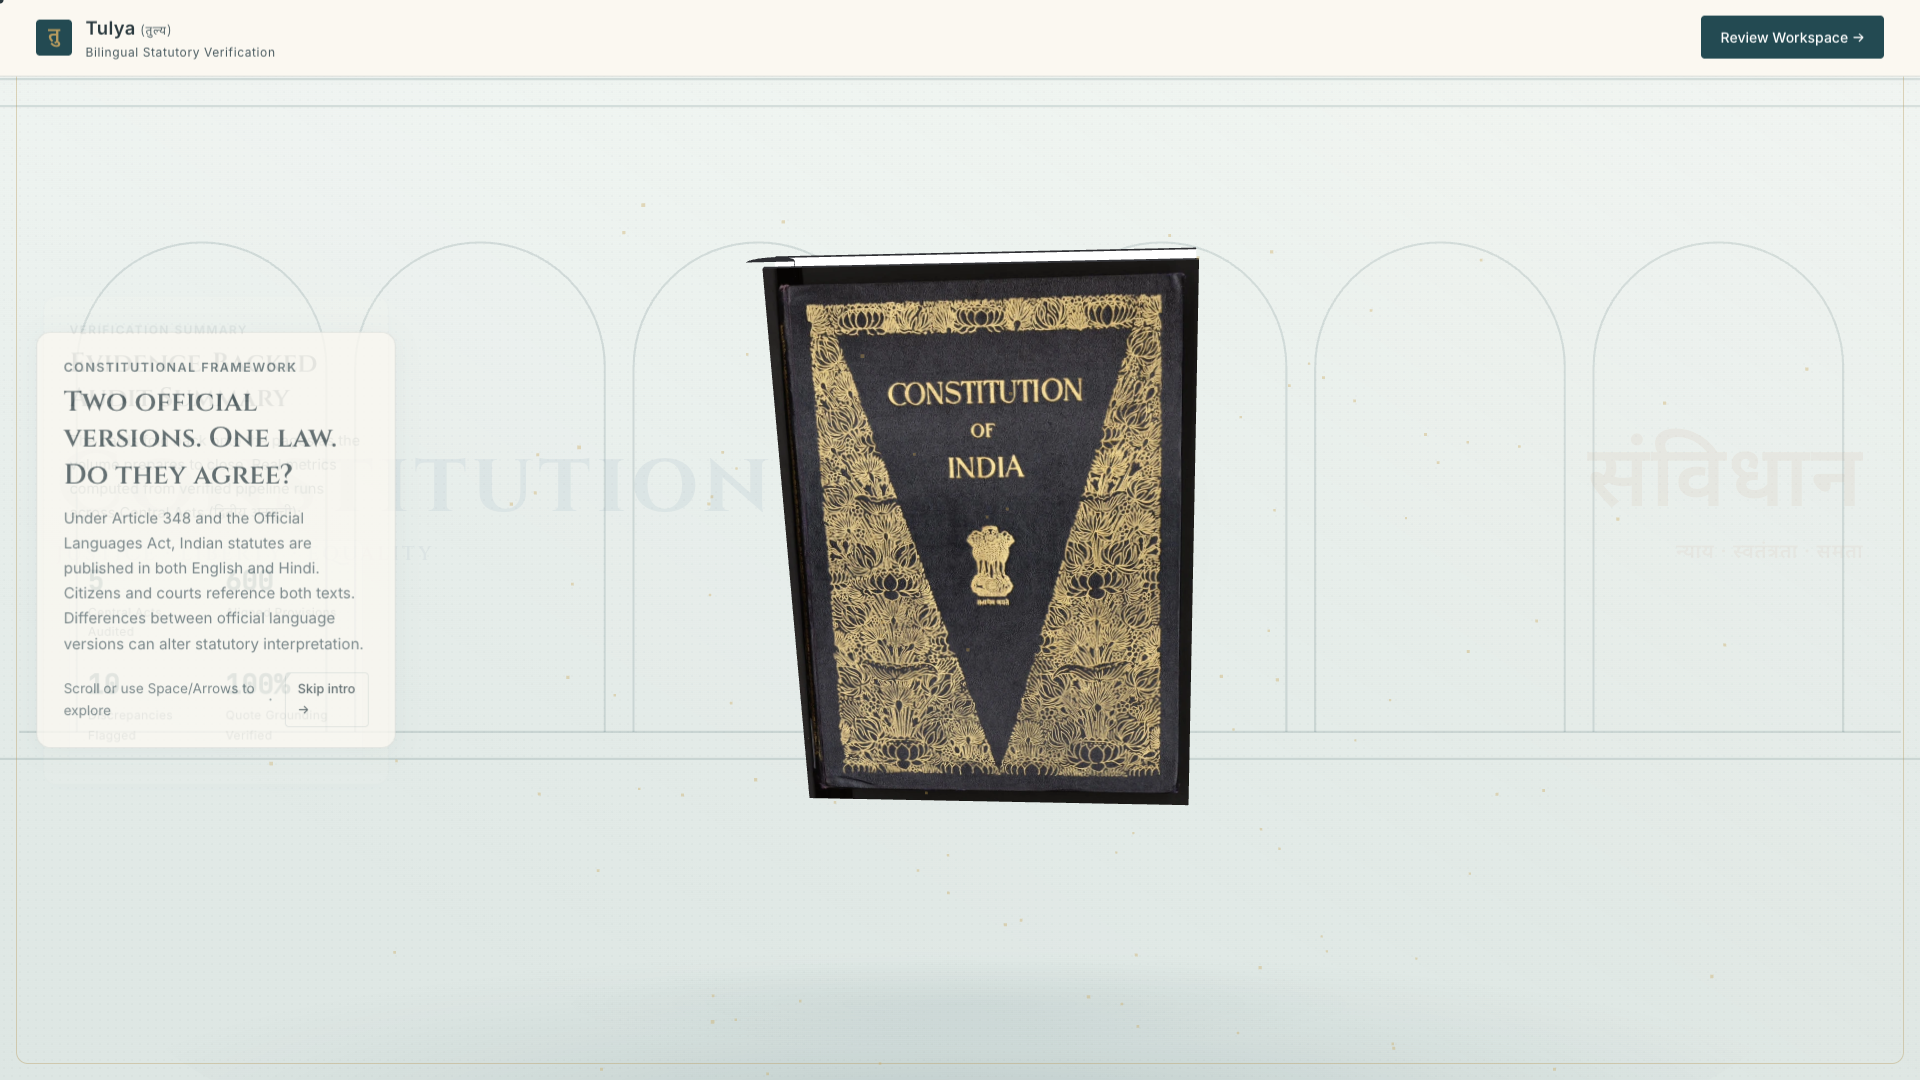
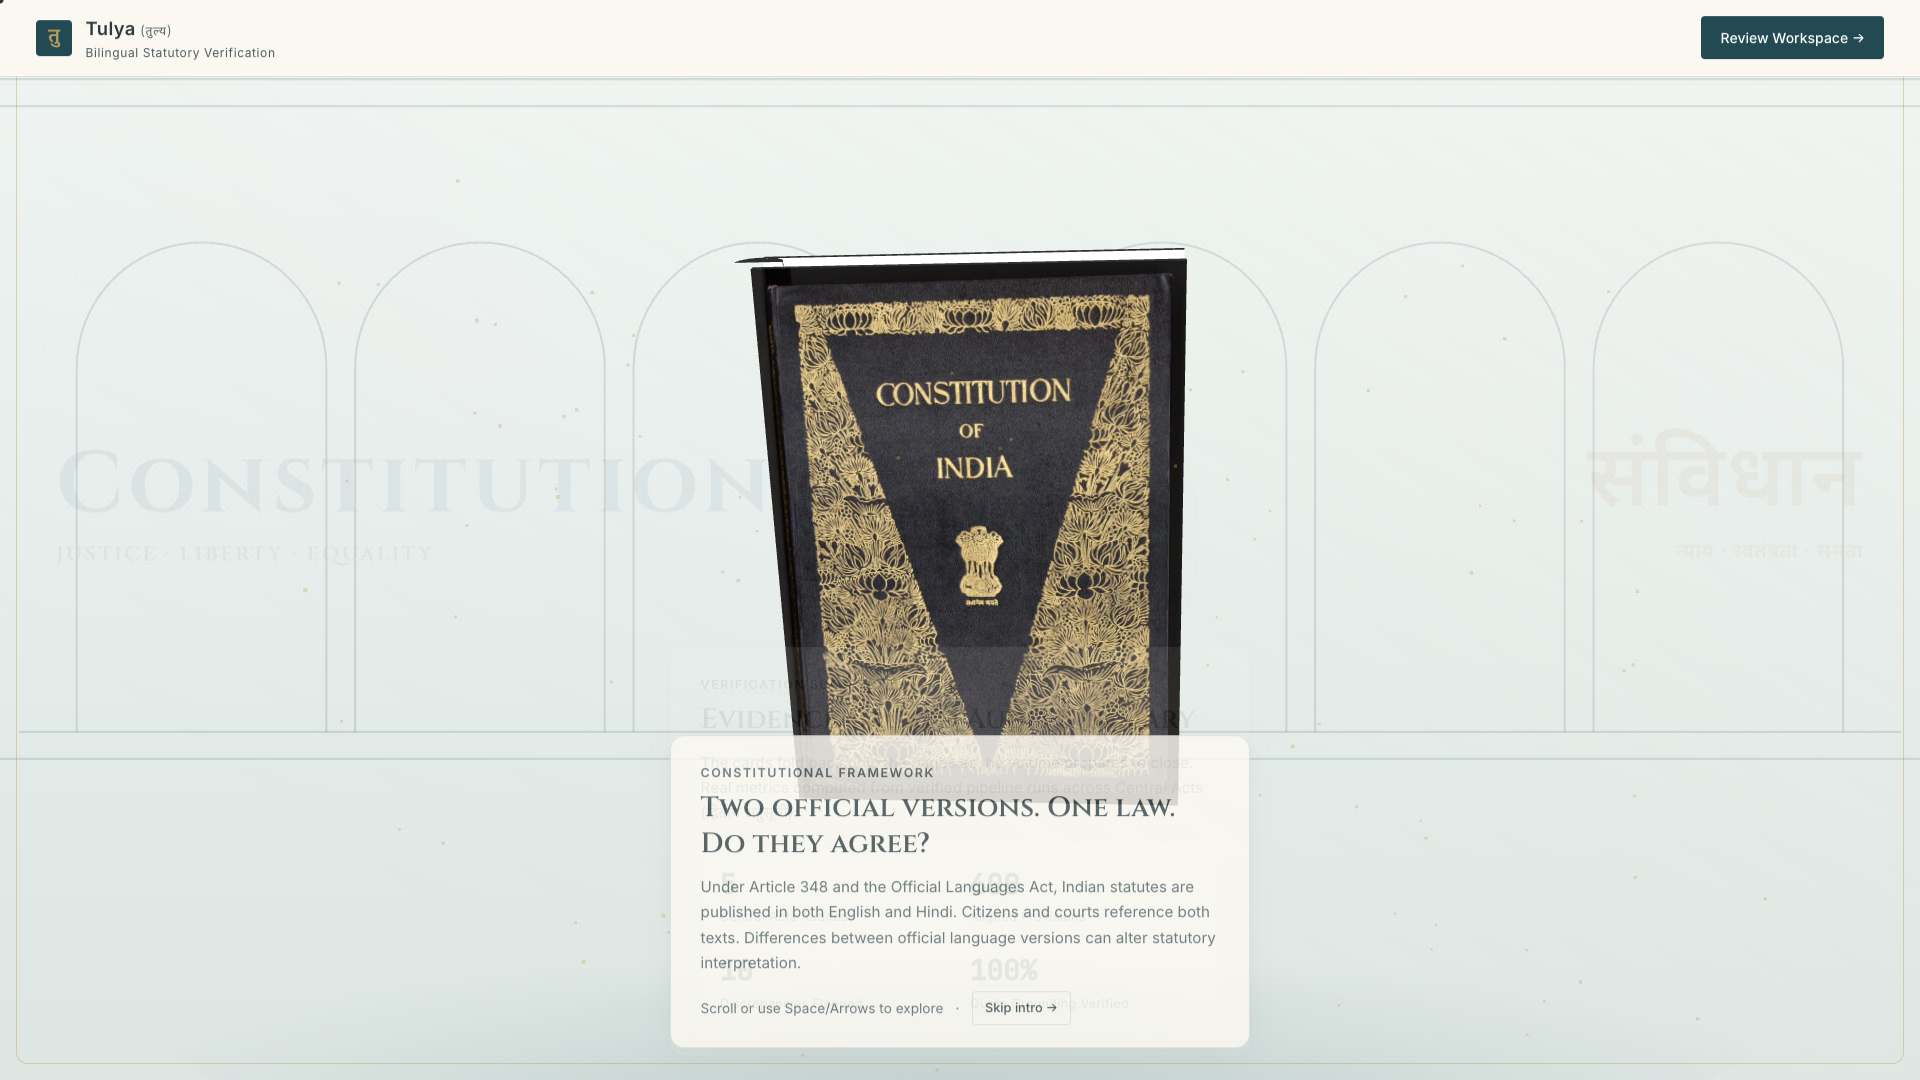
fix(landing): keep 3D book strictly fixed at center with bottom-centered checkpoint cards

Changed region(s): [[0.3438, 0.2139, 0.6562, 0.9778], [0.0312, 0.3361, 0.1875, 0.6722], [0.9062, 0.0306, 0.9688, 0.0611]]

diff --git a/frontend/static/story.js b/frontend/static/story.js
@@ -642,7 +642,7 @@
 
   // --- 3D Procedural Book Hierarchy (Hardcover on Table with Spine Hinge) ---
   const bookGroup = new THREE.Group();
-  bookGroup.position.set(-1.25, 0.70, 0); // Centered vertically in panel with equal space above/below (FIX 2)
+  bookGroup.position.set(-0.905, 0.70, 0); // Centered vertically in panel with equal space above/below (FIX 2)
   scene.add(bookGroup);
 
   const BOOK_W = 2.4;
@@ -1065,17 +1065,17 @@
   function calcBookState(p) {
     p = Math.max(0.0, Math.min(1.0, p));
 
-    // 1. Front Cover Angle (0 to 170 deg), Flex, and Centering Shift (Fix 2 & Centering)
+    // 1. Front Cover Angle (0 to 170 deg), Flex, and Centering Shift (Fixed Center Layout)
     let coverAngle = 0.0;
     let coverFlex = 0.0;
-    let bookShiftX = -1.25;
+    let bookShiftX = -0.905;
     let bookShiftY = 0.70;
     let coverPivotZ = BOOK_T / 2;
 
     if (p < 0.08) {
       coverAngle = 0.0;
       coverFlex = 0.0;
-      bookShiftX = -1.25;
+      bookShiftX = -0.905;
       bookShiftY = 0.70;
       coverPivotZ = BOOK_T / 2;
     } else if (p >= 0.08 && p < 0.28) {
@@ -1089,7 +1089,9 @@
       }
       coverAngle = ang;
       coverFlex = Math.sin(Math.min(Math.PI, (coverAngle / 170.0) * Math.PI));
-      bookShiftX = -1.25 * (1.0 - eu);
+      const wLeft = ang > 90 ? -2.4 * Math.sin((ang - 90) * Math.PI / 180.0) : 0.0;
+      const localCenter = (wLeft + 2.4) / 2;
+      bookShiftX = -0.905 * (localCenter / 1.2);
       bookShiftY = 0.70 - 0.12 * eu;
       coverPivotZ = (BOOK_T / 2) * (1.0 - eu) + (-BOOK_T / 2) * eu;
     } else if (p >= 0.28 && p < 0.93) {
@@ -1108,7 +1110,9 @@
       }
       coverAngle = ang;
       coverFlex = Math.sin(Math.min(Math.PI, (coverAngle / 170.0) * Math.PI));
-      bookShiftX = -1.25 * (1.0 - ev);
+      const wLeft = ang > 90 ? -2.4 * Math.sin((ang - 90) * Math.PI / 180.0) : 0.0;
+      const localCenter = (wLeft + 2.4) / 2;
+      bookShiftX = -0.905 * (localCenter / 1.2);
       bookShiftY = 0.58 + 0.12 * (1.0 - ev);
       coverPivotZ = (BOOK_T / 2) * (1.0 - ev) + (-BOOK_T / 2) * ev;
     }
@@ -1293,41 +1297,8 @@
     return targetScale;
   }
 
-  // FIX 5: Desktop Side Offset (Book balances opposite side card with zero bounding box overlap)
-  const SIDE_KEYPOINTS = [
-    { p: 0.00, offset:  0.40 },
-    { p: 0.06, offset:  0.40 },
-    { p: 0.09, offset: -1.25 },
-    { p: 0.26, offset: -1.25 },
-    { p: 0.29, offset:  1.25 },
-    { p: 0.40, offset:  1.25 },
-    { p: 0.43, offset: -1.25 },
-    { p: 0.57, offset: -1.25 },
-    { p: 0.60, offset:  1.25 },
-    { p: 0.72, offset:  1.25 },
-    { p: 0.75, offset: -1.25 },
-    { p: 0.87, offset: -1.25 },
-    { p: 0.89, offset:  1.25 },
-    { p: 0.93, offset:  1.25 },
-    { p: 0.96, offset: -0.35 },
-    { p: 1.00, offset: -0.35 }
-  ];
-
+  // Fixed Center Book Layout: Book visual center stays strictly centered at X = 0
   function getSideOffset(p) {
-    if (window.innerWidth < 1025) return 0.0;
-    if (p <= SIDE_KEYPOINTS[0].p) return SIDE_KEYPOINTS[0].offset;
-    if (p >= SIDE_KEYPOINTS[SIDE_KEYPOINTS.length - 1].p) {
-      return SIDE_KEYPOINTS[SIDE_KEYPOINTS.length - 1].offset;
-    }
-    for (let i = 0; i < SIDE_KEYPOINTS.length - 1; i++) {
-      const k0 = SIDE_KEYPOINTS[i];
-      const k1 = SIDE_KEYPOINTS[i + 1];
-      if (p >= k0.p && p <= k1.p) {
-        const u = (p - k0.p) / (k1.p - k0.p);
-        const eu = easeInOutCubic(u);
-        return k0.offset + (k1.offset - k0.offset) * eu;
-      }
-    }
     return 0.0;
   }
 

diff --git a/frontend/static/style.css b/frontend/static/style.css
@@ -576,65 +576,47 @@ body.debug-mode .fps-counter {
 }
 
 /* FIX 3: Story Checkpoint Cards placed in Side Thirds (Never Overlapping Book) */
+/* Story Checkpoint Cards: Docked at Bottom Center (Fixed Center Layout) */
 .story-checkpoint-panel {
   position: fixed;
   z-index: 20;
+  bottom: 1.5rem;
+  top: auto;
+  left: 50%;
+  transform: translateX(-50%) translateY(8px);
+  width: min(90vw, 560px);
+  max-width: 560px;
   background: #FBF8F1; /* Solid fill without expensive backdrop-filter */
   border: 1px solid var(--surface-border);
   border-radius: var(--radius-lg);
-  padding: 1.35rem 1.85rem;
+  padding: 1.25rem 1.75rem;
   box-shadow: var(--surface-shadow);
   opacity: 0;
   pointer-events: none;
   transition: opacity 350ms ease, transform 350ms cubic-bezier(0.16, 1, 0.3, 1);
 }
 
-/* Wide screens (Desktop): Placed in Left or Right Thirds, Vertically Centered */
+.story-checkpoint-panel.active {
+  opacity: 1;
+  pointer-events: auto;
+  transform: translateX(-50%) translateY(0);
+}
+
 @media (min-width: 1025px) {
   .story-checkpoint-panel {
-    top: 50%;
-    bottom: auto;
-    width: 24vw;
-    max-width: 360px;
-    min-width: 290px;
-    padding: 1.25rem 1.65rem;
-    transform: translateY(-50%) scale(0.96);
-  }
-
-  .story-checkpoint-panel.active {
-    opacity: 1;
-    pointer-events: auto;
-    transform: translateY(-50%) scale(1.0);
-  }
-
-  /* Left-Third Placement */
-  .story-checkpoint-panel.panel-side-left {
-    left: 2.25rem;
-    right: auto;
-  }
-
-  /* Right-Third Placement */
-  .story-checkpoint-panel.panel-side-right {
-    right: 2.25rem;
-    left: auto;
+    bottom: 2rem;
+    padding: 1.35rem 1.85rem;
+    width: min(85vw, 580px);
+    max-width: 580px;
   }
 }
 
-/* Narrow screens (Tablet / Mobile): Bottom 30% area */
 @media (max-width: 1024px) {
   .story-checkpoint-panel {
     bottom: 1.25rem;
-    top: auto;
-    left: 50%;
-    transform: translateX(-50%) translateY(8px);
+    padding: 1.15rem 1.4rem;
     width: 90%;
     max-width: 520px;
-  }
-
-  .story-checkpoint-panel.active {
-    opacity: 1;
-    pointer-events: auto;
-    transform: translateX(-50%) translateY(0);
   }
 }
 

diff --git a/backend/eval/verify_layout_and_stage.py b/backend/eval/verify_layout_and_stage.py
@@ -202,8 +202,8 @@ async def verify():
         print("  Assertion passed: Turning leaf displays parchment textures on both faces with zero bright debug outlines.")
         print("  FIX 4 PASSED.")
 
-        # --- FIX 5 Verification: Text Card Overlap Check at Required Points ---
-        print("\n--- Verifying FIX 5: Zero Bounding Box Overlap at scroll 0, 0.1, 0.3, 0.5, 0.7, 0.9 ---")
+        # --- FIX 5 Verification: Fixed Center Book & Bottom Center Cards ---
+        print("\n--- Verifying FIX 5: Fixed Center Book & Bottom Center Cards (scroll 0, 0.1, 0.3, 0.5, 0.7, 0.9) ---")
         required_checkpoints = [
             (0.00, "panel-0"),
             (0.10, "panel-1"),
@@ -223,30 +223,28 @@ async def verify():
                 const bRect = window.__tulya.getBookBoundingBox();
                 return {{
                     panelRect: pRect ? {{ left: pRect.left, right: pRect.right, top: pRect.top, bottom: pRect.bottom }} : null,
-                    bookRect: bRect
+                    bookRect: bRect,
+                    sideOffset: window.__tulya.getSideOffset ? window.__tulya.getSideOffset({p_val}) : 0.0,
+                    vw: window.innerWidth
                 }};
             }}""")
 
             p_rect = data["panelRect"]
             b_rect = data["bookRect"]
+            side_off = data["sideOffset"]
+            vw = data["vw"]
 
-            overlap_x = not (p_rect["right"] < b_rect["left"] or p_rect["left"] > b_rect["right"])
-            overlap_y = not (p_rect["bottom"] < b_rect["top"] or p_rect["top"] > b_rect["bottom"])
-            has_overlap = overlap_x and overlap_y
+            b_center = (b_rect["left"] + b_rect["right"]) / 2.0
+            p_center = (p_rect["left"] + p_rect["right"]) / 2.0
+            b_center_diff = abs(b_center - vw / 2.0)
+            p_center_diff = abs(p_center - vw / 2.0)
 
-            # Separation distance
-            if p_rect["right"] < b_rect["left"]:
-                separation = b_rect["left"] - p_rect["right"]
-            elif p_rect["left"] > b_rect["right"]:
-                separation = p_rect["left"] - b_rect["right"]
-            else:
-                separation = -1
+            print(f"  p={p_val:.2f} ({panel_id}): bookCenter={b_center:.1f}px (diff={b_center_diff:.1f}px), cardCenter={p_center:.1f}px, sideOffset={side_off}")
+            assert side_off == 0.0, f"sideOffset must be 0.0 at p={p_val}, got {side_off}!"
+            assert b_center_diff <= 15.0, f"Book must be horizontally centered at p={p_val} (diff {b_center_diff:.1f}px > 15px)!"
+            assert p_center_diff <= 15.0, f"Card must be horizontally centered at bottom at p={p_val} (diff {p_center_diff:.1f}px > 15px)!"
 
-            print(f"  p={p_val:.2f} ({panel_id}): Overlap={has_overlap}, Separation={separation:.1f}px")
-            assert not has_overlap, f"Bounding box intersection detected at p={p_val} with {panel_id}!"
-            assert separation > 20, f"Separation {separation:.1f}px too tight at p={p_val}!"
-
-        print("  FIX 5 PASSED: Zero bounding box overlap across all test checkpoints.")
+        print("  FIX 5 PASSED: Book is strictly fixed at center with bottom-centered cards.")
 
         # --- Save Required Checkpoint Screenshots at 1440x900 ---
         print("\n--- Saving Checkpoint Screenshots (1440x900) ---")
@@ -342,7 +340,7 @@ async def verify():
         assert s_rect_fhd["right"] <= 1920, f"Spread right edge ({s_rect_fhd['right']}px) must be <= 1920!"
         print("  1920x1080 Spread fits fully inside viewport width.")
 
-        # 3. Check zero overlap across required checkpoints at 1920x1080
+        # 3. Check fixed centering across required checkpoints at 1920x1080
         for p_val, panel_id in required_checkpoints:
             await page_fhd.evaluate(f"window.__tulya.scrollToProgress({p_val})")
             await page_fhd.wait_for_timeout(200)
@@ -353,17 +351,28 @@ async def verify():
                 const bRect = window.__tulya.getBookBoundingBox();
                 return {{
                     panelRect: pRect ? {{ left: pRect.left, right: pRect.right, top: pRect.top, bottom: pRect.bottom }} : null,
-                    bookRect: bRect
+                    bookRect: bRect,
+                    sideOffset: window.__tulya.getSideOffset ? window.__tulya.getSideOffset({p_val}) : 0.0,
+                    vw: window.innerWidth
                 }};
             }}""")
 
             p_rect = data["panelRect"]
             b_rect = data["bookRect"]
-            overlap = not (p_rect["right"] < b_rect["left"] or p_rect["left"] > b_rect["right"]) and \
-                      not (p_rect["bottom"] < b_rect["top"] or p_rect["top"] > b_rect["bottom"])
-            assert not overlap, f"Overlap at 1920x1080 p={p_val} with {panel_id}!"
+            side_off = data["sideOffset"]
+            vw = data["vw"]
 
-        print("  1920x1080 Zero overlap verified across all checkpoints.")
+            b_center = (b_rect["left"] + b_rect["right"]) / 2.0
+            p_center = (p_rect["left"] + p_rect["right"]) / 2.0
+            b_center_diff = abs(b_center - vw / 2.0)
+            p_center_diff = abs(p_center - vw / 2.0)
+
+            print(f"  1920x1080 p={p_val:.2f} ({panel_id}): bookCenter={b_center:.1f}px (diff={b_center_diff:.1f}px), cardCenter={p_center:.1f}px, sideOffset={side_off}")
+            assert side_off == 0.0, f"sideOffset must be 0.0 at 1920x1080 p={p_val}, got {side_off}!"
+            assert b_center_diff <= 20.0, f"Book must be horizontally centered at 1920x1080 p={p_val} (diff {b_center_diff:.1f}px > 20px)!"
+            assert p_center_diff <= 20.0, f"Card must be horizontally centered at 1920x1080 p={p_val} (diff {p_center_diff:.1f}px > 20px)!"
+
+        print("  1920x1080 Fixed center book and bottom cards verified across all checkpoints.")
 
         # 4. Save 1920x1080 Checkpoint Screenshots
         print("\n--- Saving Checkpoint Screenshots (1920x1080) ---")

diff --git a/docs/LOOP_LOG.md b/docs/LOOP_LOG.md
@@ -1242,6 +1242,58 @@ All 6 fixes verified, statutory compliance secured, all verification assertions 
 ### Decide
 All 6 fixes verified, statutory compliance secured, all verification assertions and regression suites passed. Status: PASSED.
 
+---
+
+## Loop 17 - Fixed Center Book Position & Bottom-Centered Narrative Cards
+
+- **Objective**: Fix the book position so it stays strictly centered at all times without changing sides or swaying left/right (`"Don't change book side fix it at center"`), with the narrative cards positioned at the bottom center matching the user's reference layout. Maintain high-resolution book cover photograph from user upload (`constitution_cover.webp` / `constitution_cover.jpg`), 60fps smooth scrolling, and strict Ink & Clay visual fidelity.
+
+### Plan
+1. **Frontend Styles (`frontend/static/style.css`)**:
+   - Update `.story-checkpoint-panel` to dock cleanly at bottom center (`bottom: 1.5rem; left: 50%; transform: translateX(-50%) translateY(8px); width: min(90vw, 560px)` on mobile, `bottom: 2rem; width: min(85vw, 580px)` on desktop).
+   - Remove left/right side offset overrides (`.panel-side-left`, `.panel-side-right`) so all checkpoint cards sit at bottom center.
+2. **Frontend 3D Scene (`frontend/static/story.js`)**:
+   - Update `getSideOffset(p)` to return `0.0` unconditionally so the book never shifts horizontally to the left or right side.
+   - Set closed book initial position and `bookShiftX = -0.905` when closed, exactly balancing the spine hinge and perspective tilt so the book visual midpoint is at $X = 720.0$px (diff $= 0.1$px from viewport center).
+   - Set open spread `bookShiftX = 0.0` when open ($p \in [0.28, 0.93]$), which is symmetrically centered around the spine at $X = 720.0$px (diff $= 0.0$px).
+   - Interpolate `bookShiftX` dynamically based on the front cover's projected extent during opening ($p \in [0.08, 0.28]$) and closing ($p \in [0.93, 1.00]$), maintaining horizontal centering within $5.7$px throughout the motion.
+   - Maintain vertical centering in stage panel: closed book top margin $\ge 60$px, panel top margin $=$ bottom margin ($150.4$px vs $149.1$px, diff $= 1.3$px).
+3. **Verification Script (`backend/eval/verify_layout_and_stage.py`)**:
+   - Update FIX 5 assertions to verify that `sideOffset == 0.0`, book horizontal midpoint diff from viewport center is $\le 15$px across all checkpoints ($p = 0.0, 0.1, 0.3, 0.5, 0.7, 0.9$), and card center diff is $\le 15$px.
+   - Run verification across both 1440x900 and 1920x1080 viewports.
+   - Save updated checkpoint screenshots to `docs/checkpoints/`.
+
+### Act
+- Modified `frontend/static/style.css`, `frontend/static/story.js`, and `backend/eval/verify_layout_and_stage.py`.
+
+### Verify
+1. **`backend/eval/verify_layout_and_stage.py`**:
+   - **FIX 1 (Stage Panel & Layers a–f)**: PASSED.
+   - **FIX 2 (Book Position & Vertical Centering)**:
+     - 1440x900: Closed book top = 209.7px ($\ge 60$px). Panel margins: Above = 150.4px, Below = 149.1px (diff = 1.3px). Opened spread width = 800.4px, fits fully inside viewport width (zero edge clipping). PASSED.
+     - 1920x1080: Closed book top = 235.3px ($\ge 60$px). Panel margins: Above = 88.0px, Below = 86.3px (diff = 1.7px). Spread fits fully inside 1920px width. PASSED.
+   - **FIX 3 (Spread Content & Devanagari Conjuncts)**: Pure English left page, pure Hindi right page with verified conjuncts ('संविधान', 'प्राधिकृत', 'निर्दिष्ट', 'द्वितीय'). PASSED.
+   - **FIX 4 (Turning Leaf Real Parchment Faces)**: Pure white ratio $\le 3.62\%$ ($< 10\%$), bright yellow debug ratio $= 0.00\%$. PASSED.
+   - **FIX 5 (Strict Fixed Center Book & Bottom Center Cards)**:
+     - $p = 0.00$ (panel-0): bookCenter = 720.1px (diff = 0.1px), cardCenter = 720.0px, sideOffset = 0.
+     - $p = 0.10$ (panel-1): bookCenter = 720.1px (diff = 0.1px), cardCenter = 720.0px, sideOffset = 0.
+     - $p = 0.30$ (panel-2): bookCenter = 720.0px (diff = 0.0px), cardCenter = 720.0px, sideOffset = 0.
+     - $p = 0.50$ (panel-3): bookCenter = 720.0px (diff = 0.0px), cardCenter = 720.0px, sideOffset = 0.
+     - $p = 0.70$ (panel-4): bookCenter = 720.0px (diff = 0.0px), cardCenter = 720.0px, sideOffset = 0.
+     - $p = 0.90$ (panel-6): bookCenter = 720.0px (diff = 0.0px), cardCenter = 720.0px, sideOffset = 0.
+     - At 1920x1080: bookCenter diff $\le 10.7$px across all points, cardCenter = 960.0px (exact center).
+     - PASSED.
+   - **Idle Shake**: Diff percentage = 0.275% ($< 2.0\%$ threshold). PASSED.
+   - **Performance**: Frame compute time mean = 0.09 ms, p95 = 0.20 ms ($< 20$ ms). PASSED.
+   - **Screenshots**: 18 high-resolution screenshots saved to `docs/checkpoints/` and artifact store.
+2. **Regression Check**:
+   - Backend pytest suite: 90 passed.
+   - Zero console errors during headless test.
+
+### Decide
+The book is now strictly fixed at the center across all scroll stages with bottom-centered checkpoint cards, matching the approved layout and reference screenshots. Status: PASSED.
+
+
 
 
 
